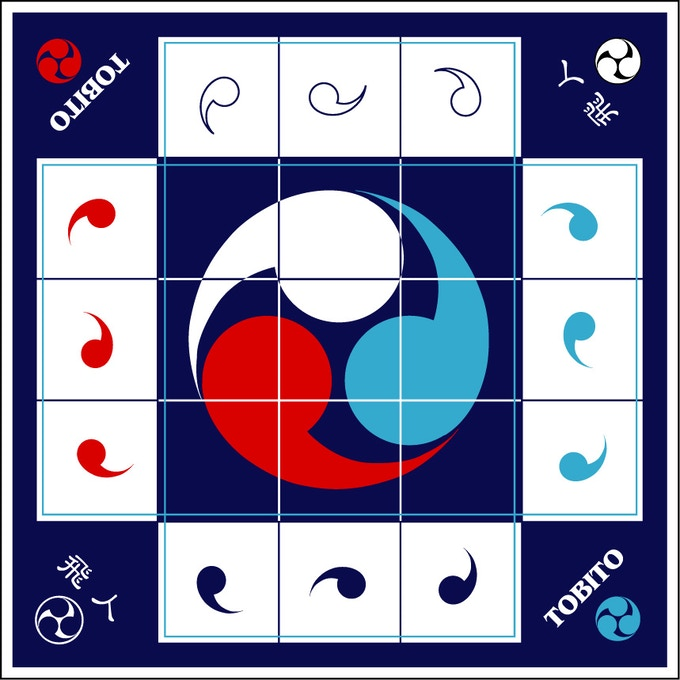
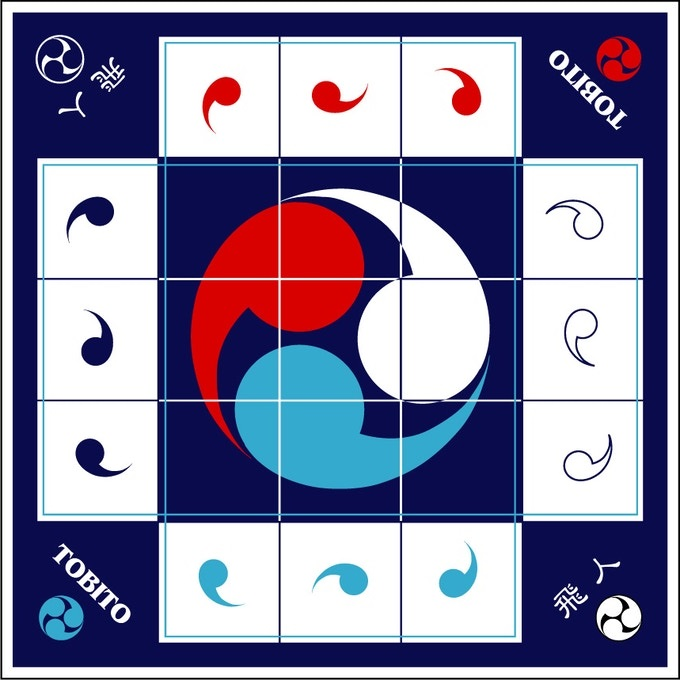
Rotated board for nicer colors

diff --git a/style.css b/style.css
@@ -37,14 +37,14 @@
 
 .bottom
 {
-    background: #0A0B4C;
-    border-color: white;
+    background: #34AACE;
+    border-color: black;
 }
 
 .top
 {
-    background: white;
-    border-color: #0A0B4C;
+    background: #D80100;
+    border-color: black;
 }
 
 .cell0
